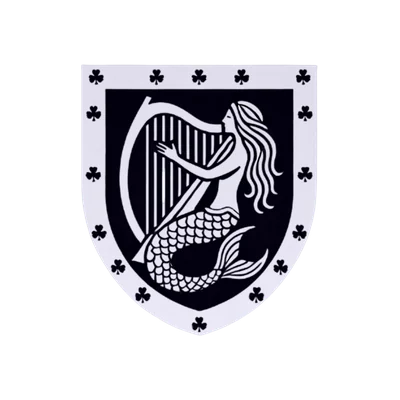
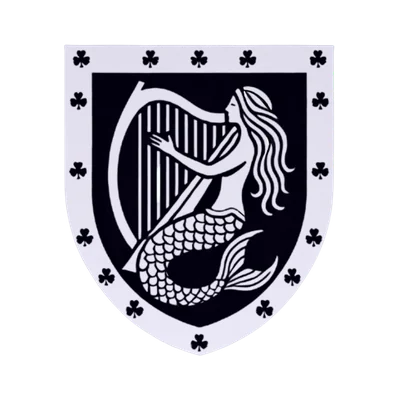
Arms parity at 78% for Kinfauns/Rothes; armorial grid renders instantly (no per-card reveal, eager images)

Changed region(s): [[0.15, 0.09, 0.84, 0.9]]

diff --git a/src/app/supporters/page.tsx b/src/app/supporters/page.tsx
@@ -42,9 +42,9 @@ export default function SupportersPage() {
       <Section tone="parchment" className="!pt-12 sm:!pt-14">
         <Container>
           <div className="grid grid-cols-1 gap-6 sm:grid-cols-2 lg:grid-cols-3 xl:grid-cols-4">
-            {baronies.map((b, i) => (
-              <Reveal key={b.name} delay={(i % 4) * 0.06} className="h-full">
-                <figure className="group relative flex h-full flex-col items-center border border-parchment-300/70 bg-parchment-50 px-6 pb-8 pt-10 text-center shadow-[0_18px_40px_-30px_rgba(10,16,36,0.5)] transition-[transform,border-color,box-shadow] duration-300 hover:-translate-y-1.5 hover:border-gold hover:shadow-[0_26px_50px_-28px_rgba(10,16,36,0.6)]">
+            {baronies.map((b) => (
+              <figure
+                key={b.name} className="group relative flex h-full flex-col items-center border border-parchment-300/70 bg-parchment-50 px-6 pb-8 pt-10 text-center shadow-[0_18px_40px_-30px_rgba(10,16,36,0.5)] transition-[transform,border-color,box-shadow] duration-300 hover:-translate-y-1.5 hover:border-gold hover:shadow-[0_26px_50px_-28px_rgba(10,16,36,0.6)]">
                   <div className="pointer-events-none absolute inset-2.5 border border-gold/0 transition-colors duration-300 group-hover:border-gold/25" aria-hidden />
                   <div className="flex h-56 w-full items-center justify-center">
                     {b.img ? (
@@ -54,7 +54,7 @@ export default function SupportersPage() {
                         alt={`Coat of arms — ${b.dignity} of ${b.name}`}
                         width={208}
                         height={208}
-                        loading={i > 7 ? "lazy" : "eager"}
+                        loading="eager"
                         decoding="async"
                         draggable={false}
                         className="h-52 w-52 object-contain transition-transform duration-500 group-hover:scale-[1.06]"
@@ -74,8 +74,7 @@ export default function SupportersPage() {
                       </span>
                     ) : null}
                   </figcaption>
-                </figure>
-              </Reveal>
+              </figure>
             ))}
           </div>
 